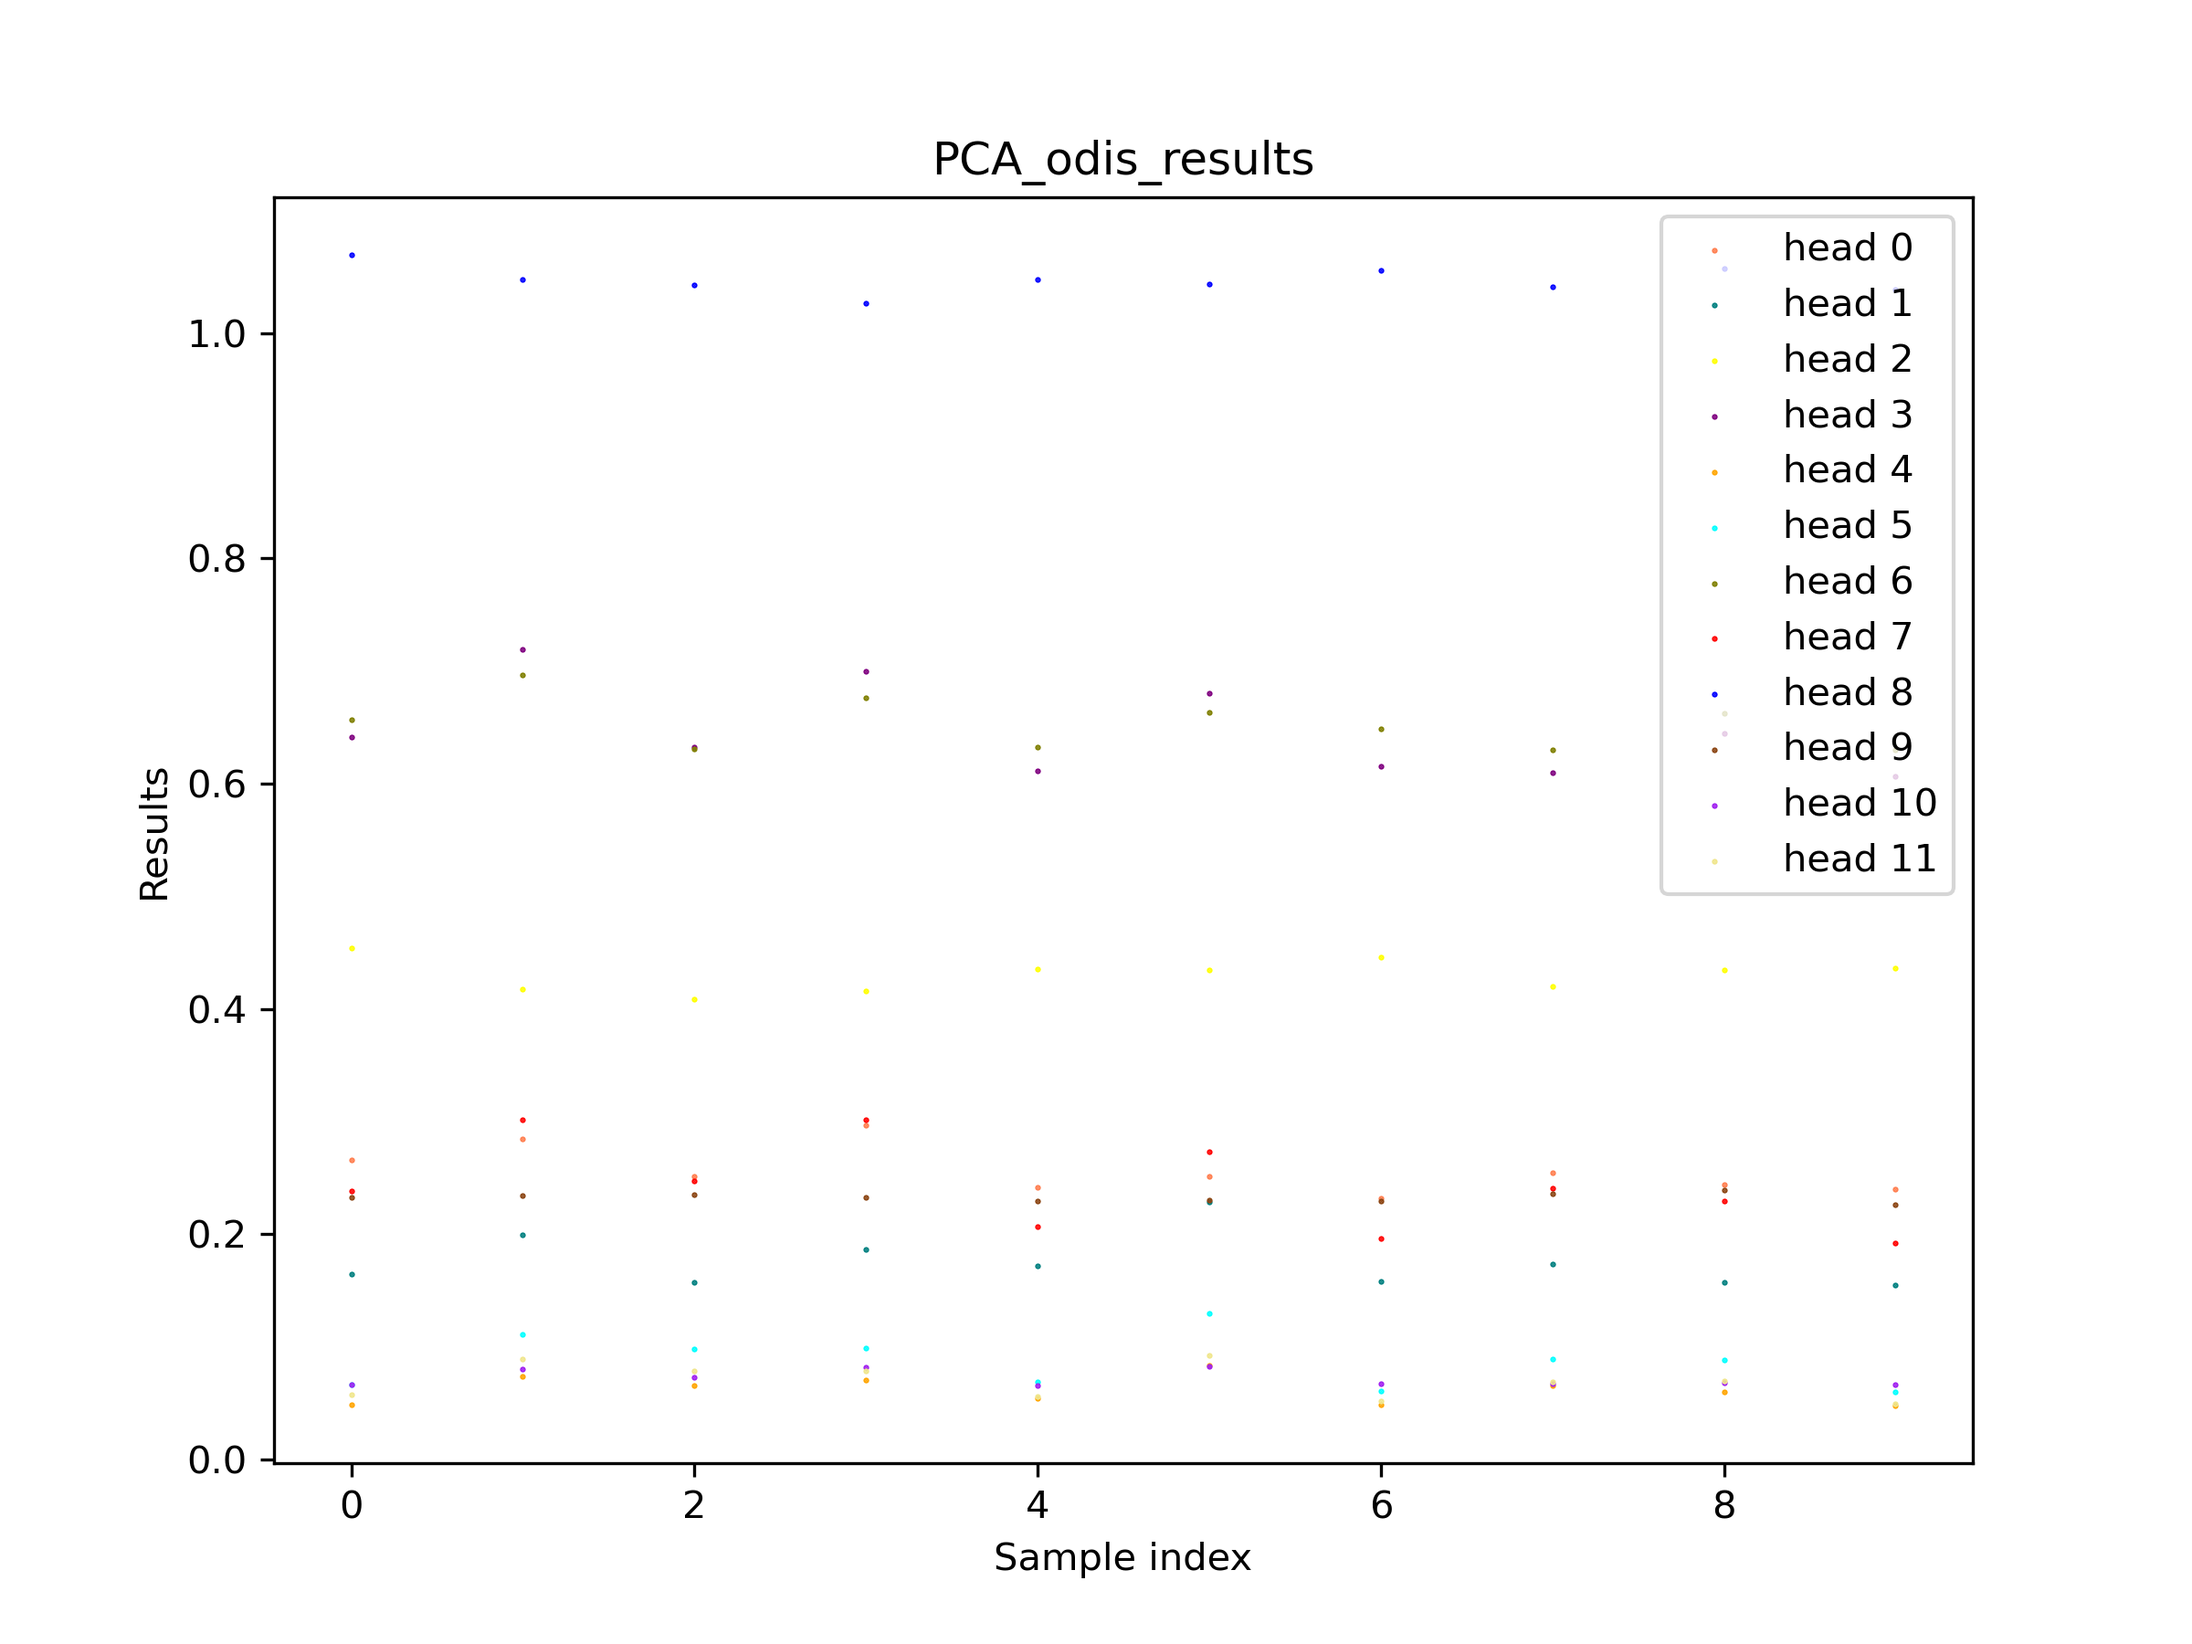
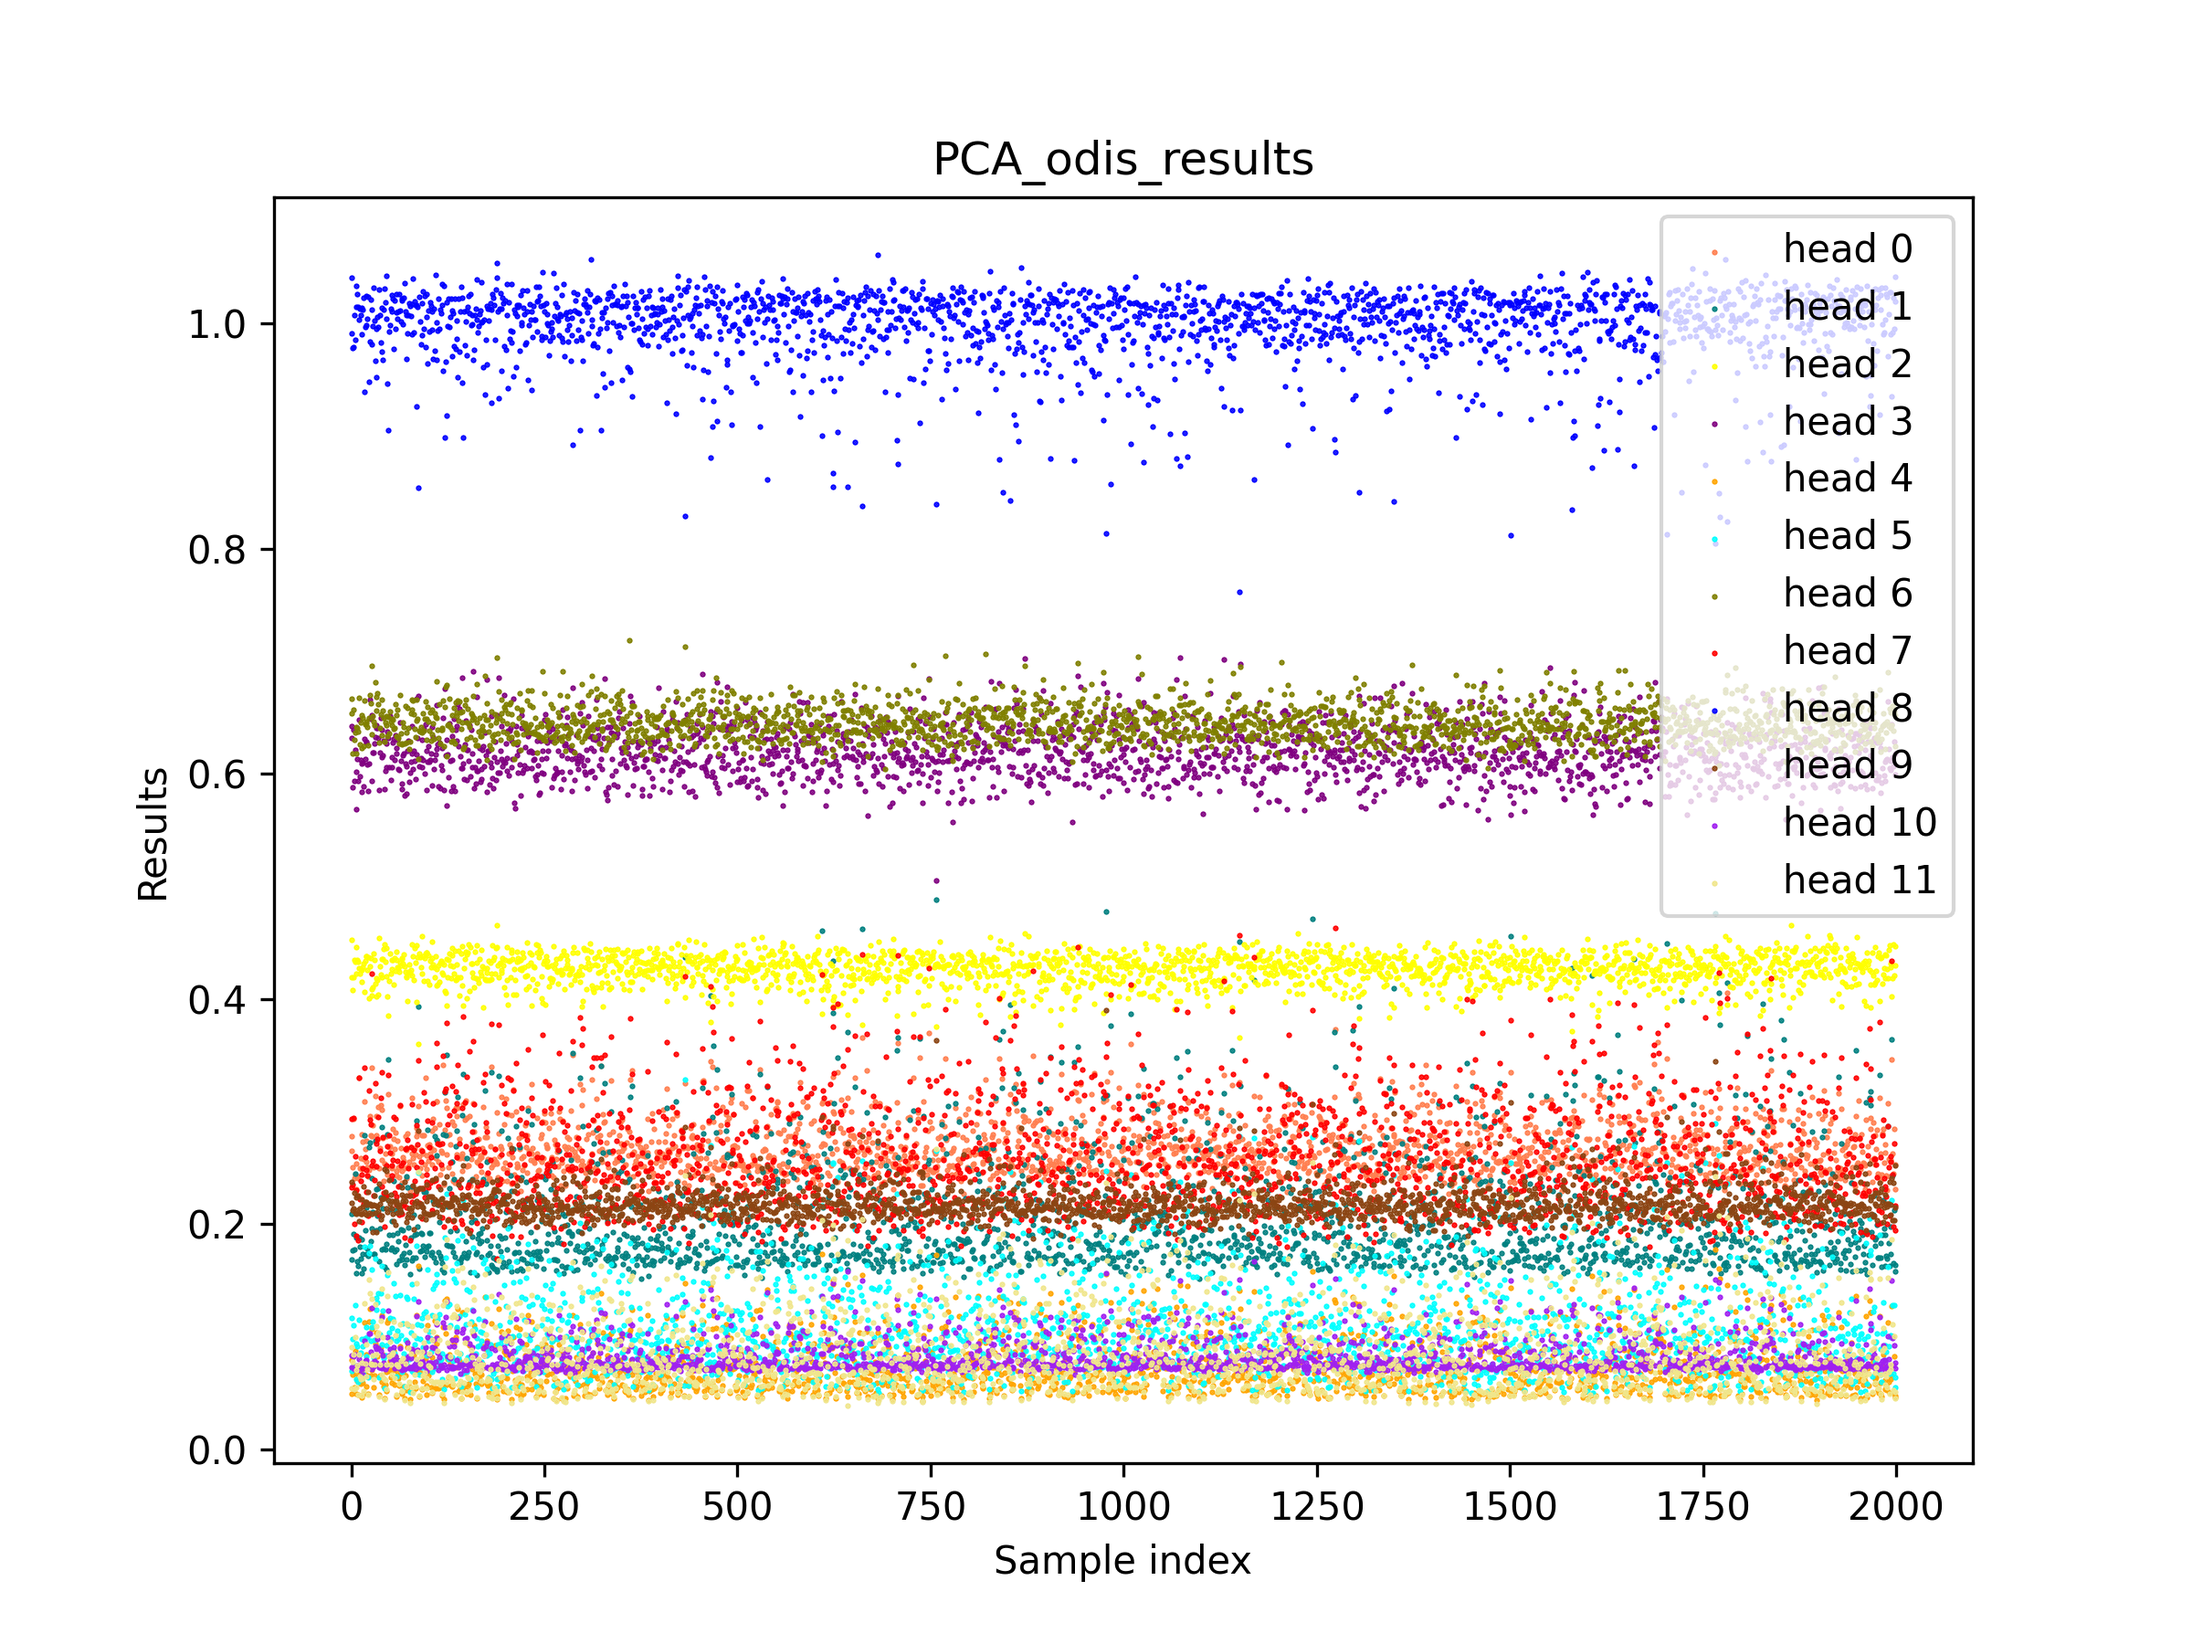
c4 test

diff --git a/dimension_check.py b/dimension_check.py
@@ -7,8 +7,8 @@ from tqdm import trange
 import time
 from datasets import load_dataset
 
-MODEL = "../../models/opt/opt-125m"
-device = "cpu"
+MODEL = "../models/opt/opt-125m"
+device = "cuda"
 
 config = AutoConfig.from_pretrained(MODEL)
 tokenizer = GPT2Tokenizer.from_pretrained(MODEL)
@@ -29,16 +29,18 @@ generation_config.output_hidden_states = True
 generation_config.output_scores = True
 
 # test = load_dataset("../../datasets/wikitext", "wikitext-2-raw-v1", split="test")
-test = load_dataset("../../datasets/c4", split="validation")
+test = load_dataset("../datasets/c4", split="validation")
 test_len = test.num_rows
 # test = [{"text":"Today is a sunny day"}]
-test_len = 10
+test_len = 2000
+MAX_LENGTH = config.max_position_embeddings
 attn_base = []
+print("BASE:")
 for idx in trange(test_len):
     prompt = (test[idx]["text"])
-    model_inputs = tokenizer([prompt], return_tensors="pt").to(device)
+    model_inputs = tokenizer([prompt], return_tensors="pt", truncation=True, max_length=MAX_LENGTH-1).to(device)
     outputs = model.generate(**model_inputs, generation_config=generation_config)
-    attn_base.append(outputs.attentions[0][0][0].to("cpu").numpy())
+    attn_base.append(outputs.attentions[0][0][0].half().to("cpu").numpy())
 
 # embed()
 def show_outputs(model, model_inputs, outputs):
@@ -99,7 +101,7 @@ def tsne(X, ratios=0.5):
 
 LOW_RANK_METHOD = {
     "PCA": pca,
-    "RP": random_projection,
+    # "RP": random_projection,
     # "ICA": ica,
     # "MDS": mds_dimensionality_reduction,
     # "vt": variance_threshold,
@@ -223,52 +225,6 @@ def similarity(base, out):
         sim.append(res)
     return sim
 
-import modyfied_opt
-out_total = {}
-for key in LOW_RANK_METHOD:
-    start_time = time.time()
-    compress_QK_total(model, config, key)
-    end_time = time.time()
-    attn_method = []
-    for idx in trange(test_len):
-        prompt = (test[idx]["text"])
-        model_inputs = tokenizer([prompt], return_tensors="pt").to(device)
-        outputs = model.generate(**model_inputs, generation_config=generation_config)
-        attn_method.append(outputs.attentions[0][0][0].to("cpu").numpy())
-    out_total[key] = attn_method
-    # print(f"Method: {key} takes {end_time - start_time}s")
-print("="*50)
-sim_res_total = {} # sim_res_total[compress_method][sample_index][head_idx][sim_method]
-for key in out_total:
-    res = []
-    for idx in trange(test_len):
-        res.append(similarity(attn_base[idx], out_total[key][idx]))
-    sim_res_total[key] = res
-del model
-model = OPTForCausalLM.from_pretrained(MODEL, config=config)
-model.to(device)
-
-out_per_head = {}
-for key in LOW_RANK_METHOD:
-    start_time = time.time()
-    compress_QK_per_head(model, config, key)
-    end_time = time.time()
-    attn_method = []
-    for idx in trange(test_len):
-        prompt = (test[idx]["text"])
-        model_inputs = tokenizer([prompt], return_tensors="pt").to(device)
-        outputs = model.generate(**model_inputs, generation_config=generation_config)
-        attn_method.append(outputs.attentions[0][0][0].to("cpu").numpy())
-    out_per_head[key] = attn_method
-    # print(f"Method: {key} takes {end_time - start_time}s")
-print("="*100)
-sim_res_per_head = {} # sim_res_per_head[compress_method][sample_index][head_idx][sim_method]
-for key in out_per_head:
-    res = []
-    for idx in trange(test_len):
-        res.append(similarity(attn_base[idx], out_per_head[key][idx]))
-    sim_res_per_head[key] = res
-
 import matplotlib.pyplot as plt
 COLOR = ['#FF7F50', '#008080', '#FFFF00', '#800080', '#FFA500', '#00FFFF', 
          '#808000', '#FF0000', '#0000FF', '#8B4513', '#A020F0', '#F0E68C']
@@ -292,5 +248,58 @@ def plt_sim_res(res, note):
             plt.savefig(f"./figure/{note}_{title}.png", dpi=300)
             plt.clf()
 
+import modyfied_opt
+out_total = {}
+print("TOTAL:")
+for key in LOW_RANK_METHOD:
+    del model
+    model = OPTForCausalLM.from_pretrained(MODEL, config=config)
+    start_time = time.time()
+    compress_QK_total(model, config, key)
+    end_time = time.time()
+    model.to(device)
+    attn_method = []
+    print(f"{key}:")
+    for idx in trange(test_len):
+        prompt = (test[idx]["text"])
+        model_inputs = tokenizer([prompt], return_tensors="pt", truncation=True, max_length=MAX_LENGTH-1).to(device)
+        outputs = model.generate(**model_inputs, generation_config=generation_config)
+        attn_method.append(outputs.attentions[0][0][0].half().to("cpu").numpy())
+    out_total[key] = attn_method
+    # print(f"Method: {key} takes {end_time - start_time}s")
+sim_res_total = {} # sim_res_total[compress_method][sample_index][head_idx][sim_method]
+for key in out_total:
+    res = []
+    for idx in trange(test_len):
+        res.append(similarity(attn_base[idx], out_total[key][idx]))
+    sim_res_total[key] = res
+del out_total
 plt_sim_res(sim_res_total, "Total")
+del sim_res_total
+
+out_per_head = {}
+print("PER_HEAD:")
+for key in LOW_RANK_METHOD:
+    del model
+    model = OPTForCausalLM.from_pretrained(MODEL, config=config)
+    start_time = time.time()
+    compress_QK_per_head(model, config, key)
+    end_time = time.time()
+    model.to(device)
+    attn_method = []
+    print(f"{key}:")
+    for idx in trange(test_len):
+        prompt = (test[idx]["text"])
+        model_inputs = tokenizer([prompt], return_tensors="pt", truncation=True, max_length=MAX_LENGTH-1).to(device)
+        outputs = model.generate(**model_inputs, generation_config=generation_config)
+        attn_method.append(outputs.attentions[0][0][0].half().to("cpu").numpy())
+    out_per_head[key] = attn_method
+    # print(f"Method: {key} takes {end_time - start_time}s")
+sim_res_per_head = {} # sim_res_per_head[compress_method][sample_index][head_idx][sim_method]
+for key in out_per_head:
+    res = []
+    for idx in trange(test_len):
+        res.append(similarity(attn_base[idx], out_per_head[key][idx]))
+    sim_res_per_head[key] = res
+
 plt_sim_res(sim_res_per_head, "Per_head")
